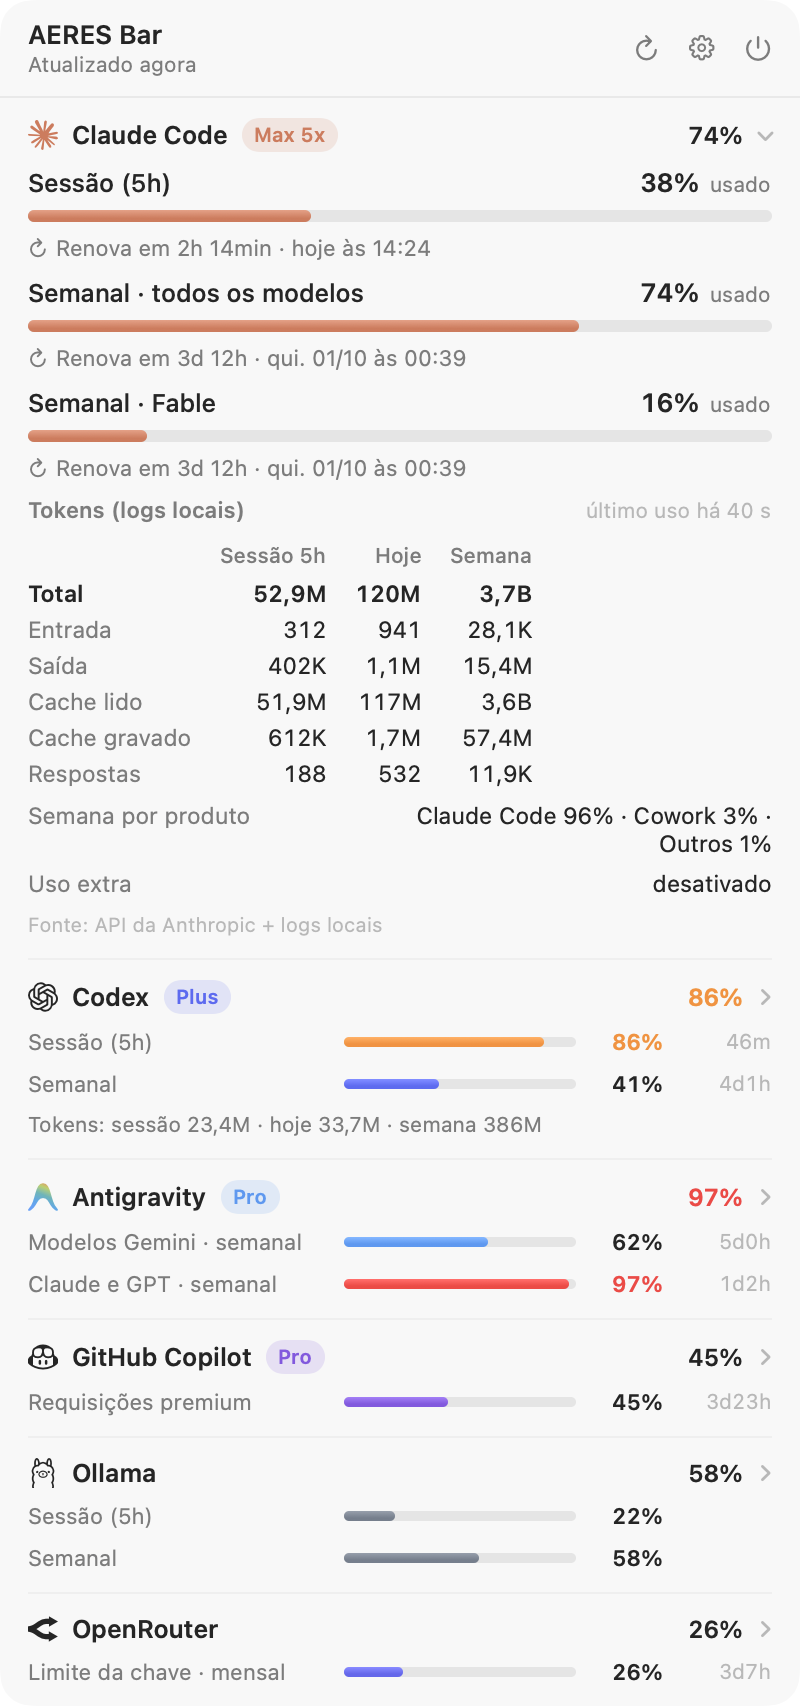
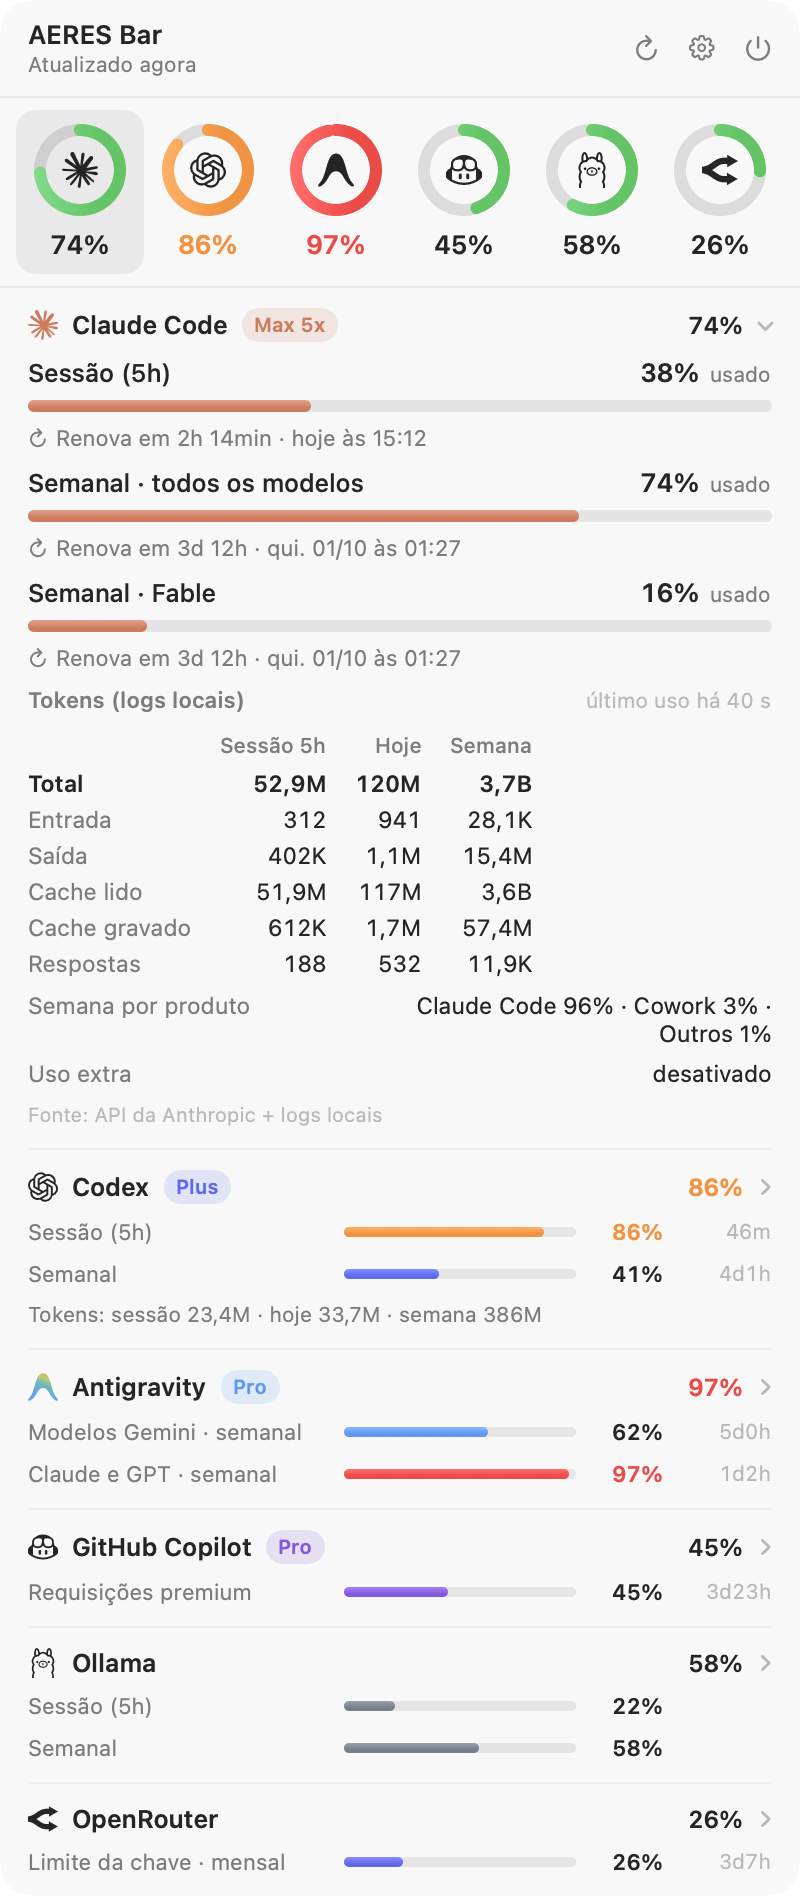
feat: resumo em anéis no topo do painel, no estilo do Apple Watch
A primeira linha do painel mostra um anel por provedor: trilho cinza e
arco a partir das 12 h, com o logo no centro e a porcentagem embaixo.
Verde, laranja a partir de 80% e vermelho a partir de 95%, com os mesmos
números e alertas da barra (UsagePresentation.summaryRings reusa o
BarPresenter). Clicar num anel abre os detalhes do provedor.

Testes das regras (Core) e do desenho (pixels do arco e do trilho);
README, arquitetura, CHANGELOG e imagens atualizados.

diff --git a/Tests/AERESBarUITests/SummaryRingsTests.swift b/Tests/AERESBarUITests/SummaryRingsTests.swift
@@ -1,0 +1,75 @@
+import AppKit
+import SwiftUI
+import Testing
+
+@testable import AERESBarCore
+@testable import AERESBarUI
+
+@Suite("Anéis do resumo")
+@MainActor
+struct SummaryRingsTests {
+    /// Renders one ring at 2× and returns the color at a point given in points from the ring's centre.
+    private func sampler(_ ring: SummaryRing, diameter: CGFloat = 52) throws -> (CGFloat, CGFloat) -> NSColor {
+        let renderer = ImageRenderer(content: RingGauge(ring: ring, diameter: diameter).environment(\.colorScheme, .light))
+        renderer.scale = 2
+        renderer.isOpaque = false
+        let image = try #require(renderer.cgImage)
+        let rep = NSBitmapImageRep(cgImage: image)
+        let centre = CGPoint(x: CGFloat(rep.pixelsWide) / 4, y: diameter / 2)  // the ring sits at the top, centred
+        return { dx, dy in
+            let color = rep.colorAt(x: Int((centre.x + dx) * 2), y: Int((centre.y + dy) * 2))
+            return color?.usingColorSpace(.sRGB) ?? .clear
+        }
+    }
+
+    private func ring(_ fraction: Double?, alert: AlertLevel? = nil) -> SummaryRing {
+        SummaryRing(provider: .claude, fraction: fraction, text: "50%", alert: alert, description: "Claude Code")
+    }
+
+    @Test("O arco sai das 12 h no sentido horário, em verde; o resto é só o trilho")
+    func halfRing() throws {
+        let color = try sampler(ring(0.5))
+        let radius: CGFloat = 26 - 3.5  // the stroke's middle: 7 pt wide, inside the 52 pt ring
+        let right = color(radius, 0)  // 3 o'clock: inside the arc
+        #expect(right.alphaComponent > 0.9)
+        #expect(right.greenComponent > right.redComponent + 0.2 && right.greenComponent > right.blueComponent + 0.2)
+        let left = color(-radius, 0)  // 9 o'clock: the track only
+        #expect(left.alphaComponent < 0.3)
+        #expect(color(0, radius).alphaComponent > 0.9)  // 6 o'clock: where half an arc ends, round cap included
+    }
+
+    @Test("Alerta pinta o anel de vermelho; sem dados, fica só o trilho")
+    func alertAndEmpty() throws {
+        let critical = try sampler(ring(1, alert: .critical))(-(26 - 3.5), 0)
+        #expect(critical.redComponent > critical.greenComponent + 0.3)
+        #expect(critical.alphaComponent > 0.9)
+
+        let empty = try sampler(ring(nil))(26 - 3.5, 0)
+        #expect(empty.alphaComponent < 0.3)
+    }
+
+    @Test("Os anéis encolhem para caber seis na largura do painel")
+    func diameters() {
+        #expect(SummaryRow.diameter(for: 3) == 52)
+        #expect(SummaryRow.diameter(for: 6) == 46)
+        #expect(SummaryRow.diameter(for: 12) == 34)
+        #expect(SummaryRow.diameter(for: 0) == 52)
+    }
+
+    @Test("A linha de anéis aparece no topo do painel e some sem provedores com limites")
+    func rowInPanel() async throws {
+        let temporary = try TemporarySettings()
+        defer { temporary.remove() }
+        func height(_ snapshots: [ProviderSnapshot]) async -> CGFloat {
+            let store = UsageStore(providers: snapshots.map(StaticProvider.init))
+            await store.refreshAllAndWait()
+            let view = PanelRootView(store: store, settings: temporary.settings, state: PanelState(), actions: PanelActions())
+            return ImageRenderer(content: view).nsImage?.size.height ?? 0
+        }
+        let limits = [UsageWindow(id: "w", title: "Semanal", usedPercent: 30, windowSeconds: 604_800)]
+        let withRing = await height([ProviderSnapshot(provider: .claude, status: .ok, windows: limits, limitsUpdatedAt: Date())])
+        let withoutRing = await height([ProviderSnapshot(provider: .claude, status: .ok, limitsUpdatedAt: Date())])
+        // The ring row (about 85 pt) comes on top of the one-line difference in the section below.
+        #expect(withRing - withoutRing > 60)
+    }
+}

diff --git a/Sources/AERESBarUI/Panel/Views/SummaryRings.swift b/Sources/AERESBarUI/Panel/Views/SummaryRings.swift
@@ -1,0 +1,82 @@
+import AERESBarCore
+import AppKit
+import SwiftUI
+
+/// The panel's first row: one ring per provider, in the style of the Apple Watch activity rings,
+/// with the provider's mark inside and the percentage below. Clicking a ring opens that
+/// provider's details further down.
+struct SummaryRow: View {
+    let rings: [SummaryRing]
+    let expanded: Set<ProviderID>
+    let onSelect: @MainActor (ProviderID) -> Void
+
+    var body: some View {
+        let diameter = Self.diameter(for: rings.count)
+        HStack(spacing: 0) {
+            ForEach(rings) { ring in
+                Button {
+                    onSelect(ring.provider)
+                } label: {
+                    RingGauge(ring: ring, diameter: diameter)
+                        .padding(.vertical, 7)
+                        .frame(maxWidth: .infinity)
+                        .background(
+                            RoundedRectangle(cornerRadius: 10, style: .continuous)
+                                .fill(Color.primary.opacity(expanded.contains(ring.provider) ? 0.07 : 0))
+                        )
+                        .contentShape(Rectangle())
+                }
+                .buttonStyle(.plain)
+                .help(ring.description)
+                .accessibilityLabel(ring.description)
+                .accessibilityHint("Mostra os detalhes do provedor")
+            }
+        }
+        .padding(.horizontal, 8)
+        .padding(.vertical, 6)
+    }
+
+    /// As big as the Apple Watch rings allow while six still share the panel's width.
+    static func diameter(for count: Int) -> CGFloat {
+        let cell = (PanelRootView.width - 16) / CGFloat(max(count, 1))
+        return min(52, max(34, cell - 18))
+    }
+}
+
+/// One ring: a gray track and an arc from 12 o'clock, clockwise, green until 80%, then orange,
+/// and red from 95%, like the menu bar number.
+struct RingGauge: View {
+    let ring: SummaryRing
+    let diameter: CGFloat
+
+    private var tint: Color {
+        ring.alert.map { Color(nsColor: BrandPalette.color(for: $0)) } ?? Color(nsColor: .systemGreen)
+    }
+
+    var body: some View {
+        let lineWidth = (diameter * 0.14).rounded()
+        VStack(spacing: 6) {
+            ZStack {
+                Circle()
+                    .inset(by: lineWidth / 2)
+                    .stroke(Color.primary.opacity(0.13), lineWidth: lineWidth)
+                if let fraction = ring.fraction, fraction > 0 {
+                    Circle()
+                        .inset(by: lineWidth / 2)
+                        .trim(from: 0, to: fraction)
+                        .stroke(tint.gradient, style: StrokeStyle(lineWidth: lineWidth, lineCap: .round))
+                        .rotationEffect(.degrees(-90))
+                        .animation(.easeOut(duration: 0.5), value: fraction)
+                }
+                BrandLogo(provider: ring.provider, tint: .primary)
+                    .frame(width: diameter * 0.4, height: diameter * 0.4)
+            }
+            .frame(width: diameter, height: diameter)
+            Text(ring.text)
+                .font(.system(size: 13, weight: .semibold).monospacedDigit())
+                .foregroundStyle(ring.alert == nil ? Color.primary : tint)
+                .lineLimit(1)
+        }
+        .accessibilityElement(children: .ignore)
+    }
+}

diff --git a/Tests/AERESBarCoreTests/PresentationTests.swift b/Tests/AERESBarCoreTests/PresentationTests.swift
@@ -350,3 +350,66 @@ struct OverallBarTests {
         #expect(BarIconStyle.allCases.allSatisfy { !$0.title.isEmpty })
     }
 }
+
+@Suite("Resumo em anéis do painel")
+struct SummaryRingTests {
+    let now = Date(timeIntervalSince1970: 1_790_000_000)
+
+    private func snapshot(_ provider: ProviderID, _ used: Double, title: String = "Semanal") -> ProviderSnapshot {
+        ProviderSnapshot(
+            provider: provider,
+            status: .ok,
+            windows: [
+                UsageWindow(id: "w", title: title, usedPercent: used, resetsAt: now.addingTimeInterval(7_200), windowSeconds: 604_800)
+            ],
+            tokens: TokenSummary(today: TokenCounts(input: 5_000))
+        )
+    }
+
+    @Test("Um anel por provedor com limites, na ordem e com os números da barra")
+    func rings() {
+        let snapshots = [
+            ProviderID.claude: snapshot(.claude, 15),
+            .codex: snapshot(.codex, 0),
+            .antigravity: snapshot(.antigravity, 97),
+            .copilot: ProviderSnapshot(provider: .copilot, status: .notInstalled),
+            .ollama: ProviderSnapshot(provider: .ollama, status: .ok),  // local models only: no limits
+        ]
+        let rings = UsagePresentation.summaryRings(
+            for: snapshots, providers: [.claude, .codex, .antigravity, .copilot, .ollama], config: .init(), now: now)
+        #expect(rings.map(\.provider) == [.claude, .codex, .antigravity])
+        #expect(rings.map(\.text) == ["15%", "0%", "97%"])
+        #expect(rings.map(\.fraction) == [0.15, 0, 0.97])
+        #expect(rings.map(\.alert) == [nil, nil, .critical])
+        // The time of day that follows depends on the machine's time zone.
+        #expect(rings.first?.description.hasPrefix("Claude Code · Semanal: 15% usado. Renova em 2h · ") == true)
+    }
+
+    @Test("Com % restante, o anel mostra o que sobra; o alerta continua vindo do uso")
+    func remaining() {
+        let rings = UsagePresentation.summaryRings(
+            for: [.codex: snapshot(.codex, 86)], providers: [.codex], config: .init(showRemaining: true, showCountdown: true), now: now)
+        #expect(rings.first?.text == "14%")  // no countdown under a ring
+        #expect(abs((rings.first?.fraction ?? 0) - 0.14) < 1e-9)
+        #expect(rings.first?.alert == .warning)
+    }
+
+    @Test("Tokens de hoje na barra: os anéis continuam em porcentagem")
+    func tokensMetric() {
+        let rings = UsagePresentation.summaryRings(
+            for: [.claude: snapshot(.claude, 40)], providers: [.claude], config: .init(metric: .tokensToday), now: now)
+        #expect(rings.first?.text == "40%")
+        #expect(rings.first?.fraction == 0.4)
+    }
+
+    @Test("Enquanto carrega, o anel fica vazio")
+    func loading() {
+        let rings = UsagePresentation.summaryRings(
+            for: [.openrouter: ProviderSnapshot(provider: .openrouter)], providers: [.openrouter], config: .init(), now: now)
+        #expect(rings.count == 1)
+        #expect(rings.first?.fraction == nil)
+        #expect(rings.first?.text == "…")
+        #expect(rings.first?.description == "OpenRouter: carregando")
+        #expect(UsagePresentation.summaryRings(for: [:], providers: [], config: .init(), now: now).isEmpty)
+    }
+}

diff --git a/Sources/AERESBarCore/Presentation/UsagePresentation.swift b/Sources/AERESBarCore/Presentation/UsagePresentation.swift
@@ -137,3 +137,54 @@ public enum UsagePresentation {
         "\(window.title): \(Formatting.percent(window.effectiveUsed(at: now))) usado. \(resetDescription(for: window, now: now))"
     }
 }
+
+/// One ring of the summary row at the top of the panel.
+public struct SummaryRing: Equatable, Identifiable, Sendable {
+    public var provider: ProviderID
+    /// How much of the ring is filled, from 0 to 1; `nil` while there is nothing to show.
+    public var fraction: Double?
+    /// "74%", or "…" while loading and "–" without data.
+    public var text: String
+    public var alert: AlertLevel?
+    /// What the ring stands for, for the tooltip and VoiceOver.
+    public var description: String
+
+    public var id: ProviderID { provider }
+}
+
+extension UsagePresentation {
+    /// The summary row: one ring per provider with limits, the same ones and numbers as the menu
+    /// bar meter. A ring fills up to the percentage shown under it (used, or left when the user
+    /// prefers that); its color comes from the usage alert.
+    public static func summaryRings(
+        for snapshots: [ProviderID: ProviderSnapshot],
+        providers: [ProviderID],
+        config: BarPresenter.Config,
+        now: Date
+    ) -> [SummaryRing] {
+        // Rings are percentages: token counts and countdowns stay in the menu bar.
+        var ringConfig = config
+        if ringConfig.metric == .tokensToday { ringConfig.metric = .mostCritical }
+        ringConfig.showCountdown = false
+
+        let levels = BarPresenter.overall(for: snapshots, providers: providers, config: ringConfig, now: now).levels
+        return levels.map { level in
+            let snapshot = snapshots[level.provider]
+            let value = BarPresenter.value(for: snapshot, config: ringConfig, now: now)
+            let shown = value.usedPercent.map { config.showRemaining ? 100 - $0 : $0 }
+            let description: String
+            if let window = value.window {
+                description = "\(level.provider.displayName) · \(accessibilityLabel(for: window, now: now))"
+            } else {
+                description = "\(level.provider.displayName): \(snapshot?.status == .loading ? "carregando" : "sem dados")"
+            }
+            return SummaryRing(
+                provider: level.provider,
+                fraction: shown.map { min(max($0 / 100, 0), 1) },
+                text: value.text,
+                alert: value.alert,
+                description: description
+            )
+        }
+    }
+}

diff --git a/Sources/AERESBarUI/Panel/Views/PanelRootView.swift b/Sources/AERESBarUI/Panel/Views/PanelRootView.swift
@@ -24,6 +24,7 @@ struct PanelRootView: View {
         let providers = store.providerIDs
         let shown = providers.filter { store.snapshots[$0]?.status != .notInstalled }
         let absent = providers.filter { store.snapshots[$0]?.status == .notInstalled }
+        let rings = UsagePresentation.summaryRings(for: store.snapshots, providers: shown, config: settings.barConfig, now: now)
         return VStack(spacing: 0) {
             PanelHeader(
                 subtitle: UsagePresentation.updatedLine(for: providers.compactMap { store.snapshots[$0] }, now: now),
@@ -31,6 +32,10 @@ struct PanelRootView: View {
                 actions: actions
             )
             Divider().opacity(0.6)
+            if !rings.isEmpty {
+                SummaryRow(rings: rings, expanded: state.expanded) { state.toggle($0) }
+                Divider().opacity(0.6)
+            }
             if shown.isEmpty {
                 Text("Nenhum provedor encontrado neste Mac.")
                     .font(.system(size: 11.5))

diff --git a/docs/ARCHITECTURE.md b/docs/ARCHITECTURE.md
@@ -115,7 +115,7 @@ Resultado medido num Mac com Apple Silicon: a primeira leitura, de 1,8 GB (493 a
 ## Interface
 
 - **Barra de menus:** um único `NSStatusItem`. O ícone é o `MeterImage`, uma imagem-modelo desenhada à mão com uma barra por provedor, cheia até o uso de cada um; o trilho vazio é translúcido e sobrevive à tintura do sistema. Ao lado, o número do provedor mais crítico em fonte monoespaçada para dígitos, com cor só nos alertas. O ajuste **Ícone na barra** troca o medidor pelo logo do provedor mais crítico.
-- **Painel:** `NSPanel` sem borda e **não ativante**, que não rouba o foco do app em uso. Usa Liquid Glass (`NSGlassEffectView`) no macOS 26+ e material de popover antes disso. Mostra todos os provedores ligados: cada `ProviderSection` tem um resumo (uma linha por janela) e, ao clicar, os detalhes. O tamanho acompanha o conteúdo SwiftUI pela invalidação do tamanho intrínseco do `NSHostingView`; `onPreferenceChange` não era confiável dentro de um painel que não é janela principal.
+- **Painel:** `NSPanel` sem borda e **não ativante**, que não rouba o foco do app em uso. Usa Liquid Glass (`NSGlassEffectView`) no macOS 26+ e material de popover antes disso. No topo, a `SummaryRow` desenha um `RingGauge` por provedor, no estilo dos anéis do Apple Watch: trilho cinza e arco a partir das 12 h, com a mesma porcentagem e a mesma cor de alerta da barra (`UsagePresentation.summaryRings` reusa o `BarPresenter`). Abaixo, cada `ProviderSection` tem um resumo (uma linha por janela) e, ao clicar nela ou no anel, os detalhes. O tamanho acompanha o conteúdo SwiftUI pela invalidação do tamanho intrínseco do `NSHostingView`; `onPreferenceChange` não era confiável dentro de um painel que não é janela principal.
 - **Botão Atualizar:** enquanto o store atualiza, o ícone dá lugar a um `ProgressView`. A versão 1.0.0 girava o ícone com uma animação `repeatForever`, que ficava errática porque o painel se redesenha a cada segundo (`TimelineView`, para as contagens regressivas).
 - **Hover:** uma `NSTrackingArea` no item abre o painel após 150 ms. Uma `Task` observa o ponteiro e fecha o painel 350 ms depois que ele sai do item, do painel e da faixa entre os dois. Com clique, monitores de evento fecham o painel com clique fora ou Esc.
 - **Marcas oficiais:** os caminhos vetoriais vêm dos SVGs que os próprios fornecedores distribuem: `claude-logo.svg` da extensão do Claude Code, `blossom-black.svg` da extensão do Codex e `jetski-logo-black.svg` do Antigravity IDE; a do Copilot vem dos Octicons do GitHub (`copilot-24`), e as do Ollama e do OpenRouter, do Simple Icons. Um parser SVG próprio (`SVGPath`) cobre todos os comandos, arcos incluídos, e gera `Path`/`CGPath` nítidos em qualquer escala; marcas com vários caminhos são unidas com `CGPath.union`.
@@ -130,7 +130,7 @@ Resultado medido num Mac com Apple Silicon: a primeira leitura, de 1,8 GB (493 a
 | Provedores | `MockHTTPClient`, `ScriptedCommandRunner`, `StubCredentialSource`, `StubGitHubTokenSource`, `MemorySecretStore` e `TestClock`: sucesso, 401, 403, 429 + `Retry-After`, leitura manual, credencial expirada, troca e remoção de chave, falta de rede, fallback para logs, Antigravity fechado, servidor do Ollama parado |
 | Infraestrutura | Entrada padrão dos processos, gravação de chaves sem argumentos, busca do login do GitHub, `OLLAMA_HOST` |
 | Estado | Store (coalescência, paralelismo, provedores desligados, leitura manual, persistência), cache em disco, preferências |
-| UI | Parser SVG, renderização das marcas (cobertura de pixels), medidor (pixels por barra), painel resumido e aberto via `ImageRenderer`, menu de ajustes e de chaves |
+| UI | Parser SVG, renderização das marcas (cobertura de pixels), medidor (pixels por barra), anéis do resumo (pixels do arco e do trilho), painel resumido e aberto via `ImageRenderer`, menu de ajustes e de chaves |
 
 A cobertura mínima é aplicada no CI (`scripts/coverage.sh`).
 

diff --git a/README.md b/README.md
@@ -21,7 +21,7 @@
 
 <table align="center">
   <tr>
-    <td><img src="docs/images/panel-dark.png" width="340" alt="Painel com os seis provedores resumidos"></td>
+    <td><img src="docs/images/panel-dark.png" width="340" alt="Painel com o resumo em anéis e os seis provedores"></td>
     <td><img src="docs/images/panel-expanded-light.png" width="340" alt="Painel com os detalhes do Claude Code abertos"></td>
   </tr>
 </table>
@@ -50,10 +50,10 @@
 - **Um só item na barra de menus**, para ocupar pouco espaço: um medidor com uma barra por provedor, cheia até o uso de cada um, e ao lado a porcentagem do provedor mais perto do limite. Dá para trocar o medidor pelo logo do provedor mais crítico ou esconder o número e deixar só o ícone.
 - **Número configurável:** limite mais crítico (padrão), janela principal, semanal ou tokens de hoje (somados); em % usada ou restante; com contagem regressiva opcional (`74% · 3d12h`).
 - **Alertas visuais:** o número fica laranja a partir de 80% e vermelho a partir de 95%.
-- **Painel ao passar o mouse** com todos os provedores de uma vez. Cada janela de limite ocupa uma linha, com barra de progresso, % usado e quanto falta para renovar. Clicar num provedor abre os detalhes:
-  - quanto falta para renovar e quando: `Renova em 1h 17min · hoje às 05:10`;
-  - tokens gastos na sessão, hoje e na semana (entrada, saída, cache lido e gravado, respostas);
-  - plano da conta, uso extra, divisão do uso semanal por produto, cota por modelo, gasto e saldo.
+- **Painel ao passar o mouse** com todos os provedores de uma vez:
+  - no topo, um **resumo em anéis no estilo do Apple Watch**: um anel por provedor, com o logo no centro e a porcentagem embaixo, verde até 79%, laranja a partir de 80% e vermelho a partir de 95%;
+  - abaixo, cada janela de limite numa linha, com barra de progresso, % usado e quanto falta para renovar;
+  - clicar num anel ou num provedor abre os detalhes: quando renova (`Renova em 1h 17min · hoje às 05:10`), tokens da sessão, do dia e da semana (entrada, saída, cache lido e gravado, respostas), plano, uso extra, uso semanal por produto, cota por modelo, gasto e saldo.
 - **Seis provedores:** Claude Code, Codex, Antigravity, GitHub Copilot, Ollama (Cloud e servidor local) e OpenRouter. Cada um pode ser desligado no menu; os que não estão configurados aparecem no rodapé do painel, com um atalho para configurar.
 - **Clique** fixa o painel (fecha com clique fora ou Esc). **Clique direito** abre os ajustes.
 - **Atualização automática** a cada 1–10 min, ao acordar o Mac e quando o Antigravity abre ou fecha. **Atualizar agora** (no painel ou no menu) consulta as APIs na hora. Um dado já lido nunca some: sem conexão ou com a ferramenta fechada, o painel mostra a última leitura e zera as janelas cujo horário de renovação já passou.
@@ -106,7 +106,7 @@ Desliga a abertura no login, encerra o app e apaga o app, o cache, as preferênc
 | Gesto | Resultado |
 | --- | --- |
 | Passar o mouse sobre o item | Abre o painel com todos os provedores |
-| Clicar num provedor no painel | Abre ou fecha os detalhes dele |
+| Clicar num anel ou num provedor no painel | Abre ou fecha os detalhes dele |
 | Clique no item | Fixa o painel; clique fora ou Esc fecha |
 | Clique direito (ou ⌃-clique) | Menu de ajustes |
 | ⌘-arrastar o item | Muda a posição dele na barra (posição salva) |

diff --git a/CHANGELOG.md b/CHANGELOG.md
@@ -10,6 +10,7 @@ Todas as mudanças relevantes do AERES Bar. O formato segue o [Keep a Changelog]
 - Ollama: limites de sessão (5 h) e semanal do Ollama Cloud, com a chave da API, e o servidor local com a versão e os modelos carregados.
 - OpenRouter: limite de gasto da chave (diário, semanal, mensal ou fixo), cota diária de modelos gratuitos, gasto do dia, da semana e do mês e saldo de créditos (com chave de gerenciamento).
 - Chaves de API do OpenRouter e do Ollama Cloud no menu de ajustes (definir, trocar, remover e criar no site) e na linha de comando (`--set-key`, `--delete-key`), guardadas no Chaves do macOS.
+- Resumo no topo do painel com um anel por provedor, no estilo do Apple Watch: logo no centro, porcentagem embaixo e cor pelo nível de alerta. Clicar num anel abre os detalhes do provedor.
 - Menu **Provedores** para ligar e desligar cada provedor, e rodapé no painel com os que faltam configurar.
 - Ajustes **Ícone na barra** (medidores ou logo do mais crítico) e **Mostrar o número ao lado do ícone**.
 
